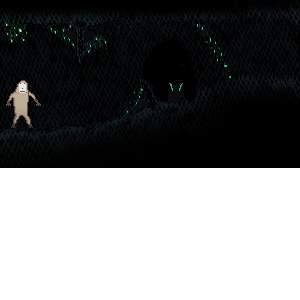
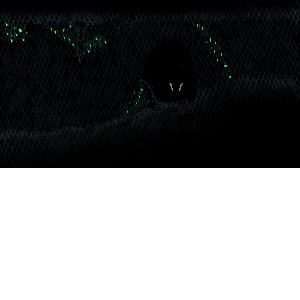
git pushf

Changed region(s): [[0.0, 0.27, 0.15, 0.42]]

diff --git a/data.js b/data.js
@@ -133,7 +133,17 @@ const PLAYER_SPRITE_JUMP_LEFT = [
     { src: "sloth/jump_left1" },
 ];
 
-const ALL_DATA = [PLAYER_SPRITE_LEFT, PLAYER_SPRITE_RIGHT, PLAYER_SPRITE_CROUCH, PLAYER_SPRITE_JUMP, PLAYER_SPRITE_JUMP_RIGHT, PLAYER_SPRITE_JUMP_LEFT];
+const SPAWN_CAVE_BACKROUND = [
+    { src: "backrounds/spawn_cave1" },
+    { src: "backrounds/spawn_cave2" },
+    { src: "backrounds/spawn_cave3" },
+    { src: "backrounds/spawn_cave4" },
+    { src: "backrounds/spawn_cave5" },
+    { src: "backrounds/spawn_cave6" },
+    { src: "backrounds/spawn_cave7" },
+];
+
+const ALL_DATA = [PLAYER_SPRITE_LEFT, PLAYER_SPRITE_RIGHT, PLAYER_SPRITE_CROUCH, PLAYER_SPRITE_JUMP, PLAYER_SPRITE_JUMP_RIGHT, PLAYER_SPRITE_JUMP_LEFT, SPAWN_CAVE_BACKROUND];
 
 var imagesToLoad = 0;
 
@@ -147,8 +157,8 @@ ALL_DATA.forEach(array => {
             // when image is loaded, save its width/height, scaled for game and decrease imagesToLoad by one
             imagesToLoad--;
             //console.log(imagesToLoad);
-            e.width = img.naturalWidth * 6;
-            e.height = img.naturalHeight * 6;
+            e.width = img.naturalWidth * 4;
+            e.height = img.naturalHeight * 4;
             if (imagesToLoad == 0) {
                 startGame();
             }

diff --git a/game.js b/game.js
@@ -9,8 +9,8 @@
 function startGame() {
 
     //constants
-    const WIDTH = 1380;
-    const HEIGHT = 800;
+    const WIDTH = 1200;
+    const HEIGHT = 672;
 
     var ctx;
 
@@ -22,7 +22,8 @@ function startGame() {
         PLAYER_SPRITE_JUMP.length +
         PLAYER_SPRITE_CROUCH.length +
         PLAYER_SPRITE_JUMP_LEFT.length +
-        PLAYER_SPRITE_JUMP_RIGHT.length;
+        PLAYER_SPRITE_JUMP_RIGHT.length +
+        SPAWN_CAVE_BACKROUND.length;
     var imagesToLoad = numberOfImages;
 
     var jumping = false;
@@ -40,7 +41,7 @@ function startGame() {
     var playerJumpHeight = 7;
     var playerJumpSpeed = 5;
     var playerSprite = PLAYER_SPRITE_RIGHT[5];
-
+    var backRoundImage = SPAWN_CAVE_BACKROUND[1];
     //frame variables
     var frameRight = 0;
     var frameLeft = 0;
@@ -101,6 +102,7 @@ function startGame() {
         bordercheck();
 
         //draw the player
+        ctx.drawImage(backRoundImage.img, 0, 0, backRoundImage.width, backRoundImage.height);
         ctx.drawImage(playerSprite.img, playerXPosition, playerYPosition, playerSprite.width, playerSprite.height);
 
     }

diff --git a/game.html b/game.html
@@ -10,7 +10,7 @@
 
 <body>
 
-  <canvas id="myCanvas" width="1380" height="800" style="border:1px solid #000000;">
+  <canvas id="myCanvas" width="1200" height="672" style="border:1px solid #000000;">
     Your browser does not support the canvas element.
   </canvas>
 
